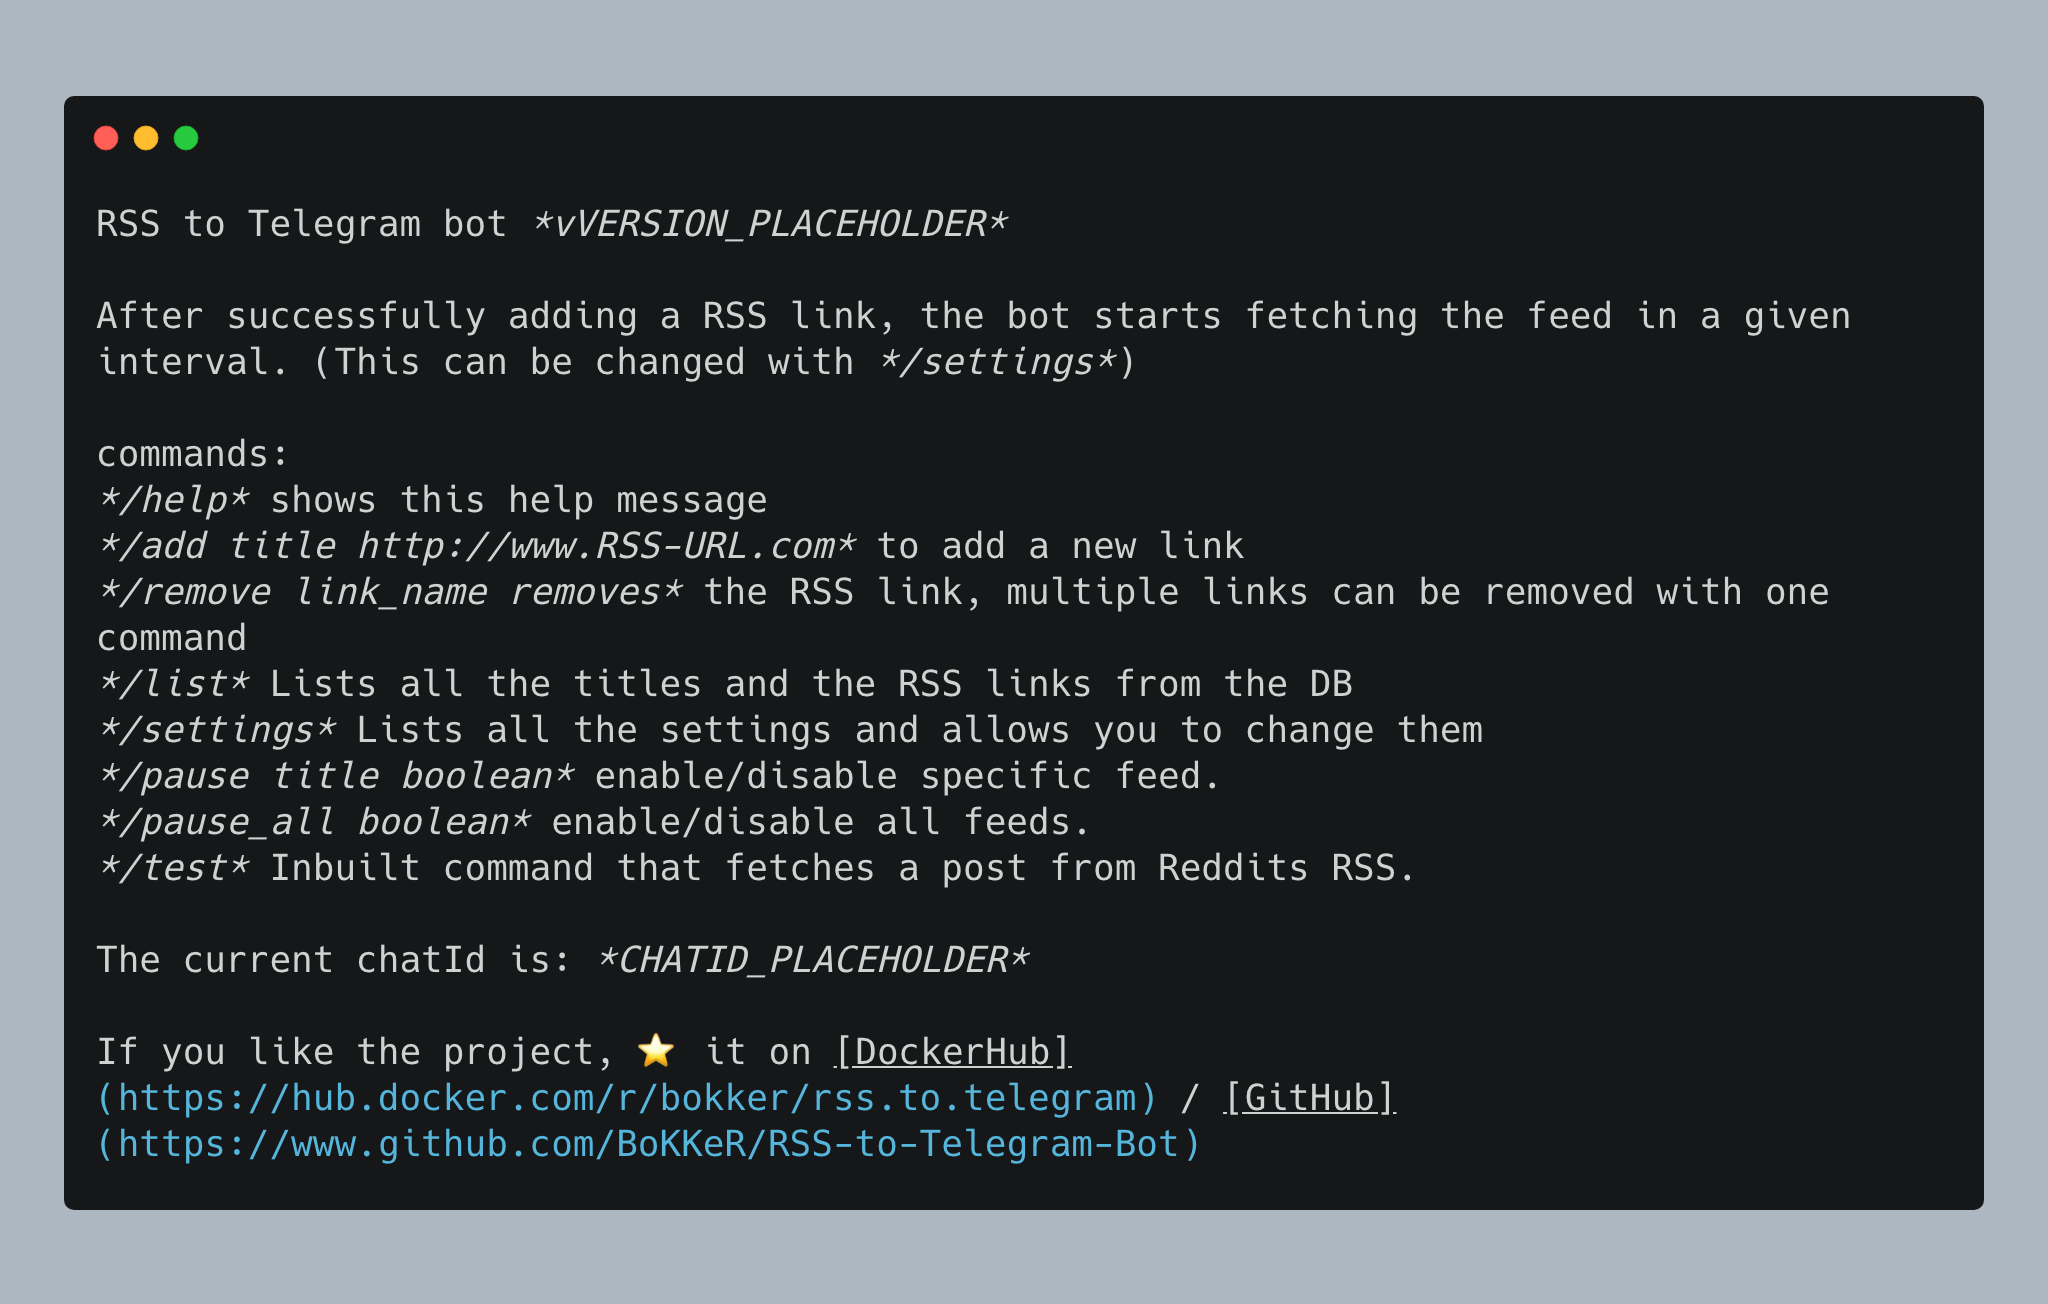
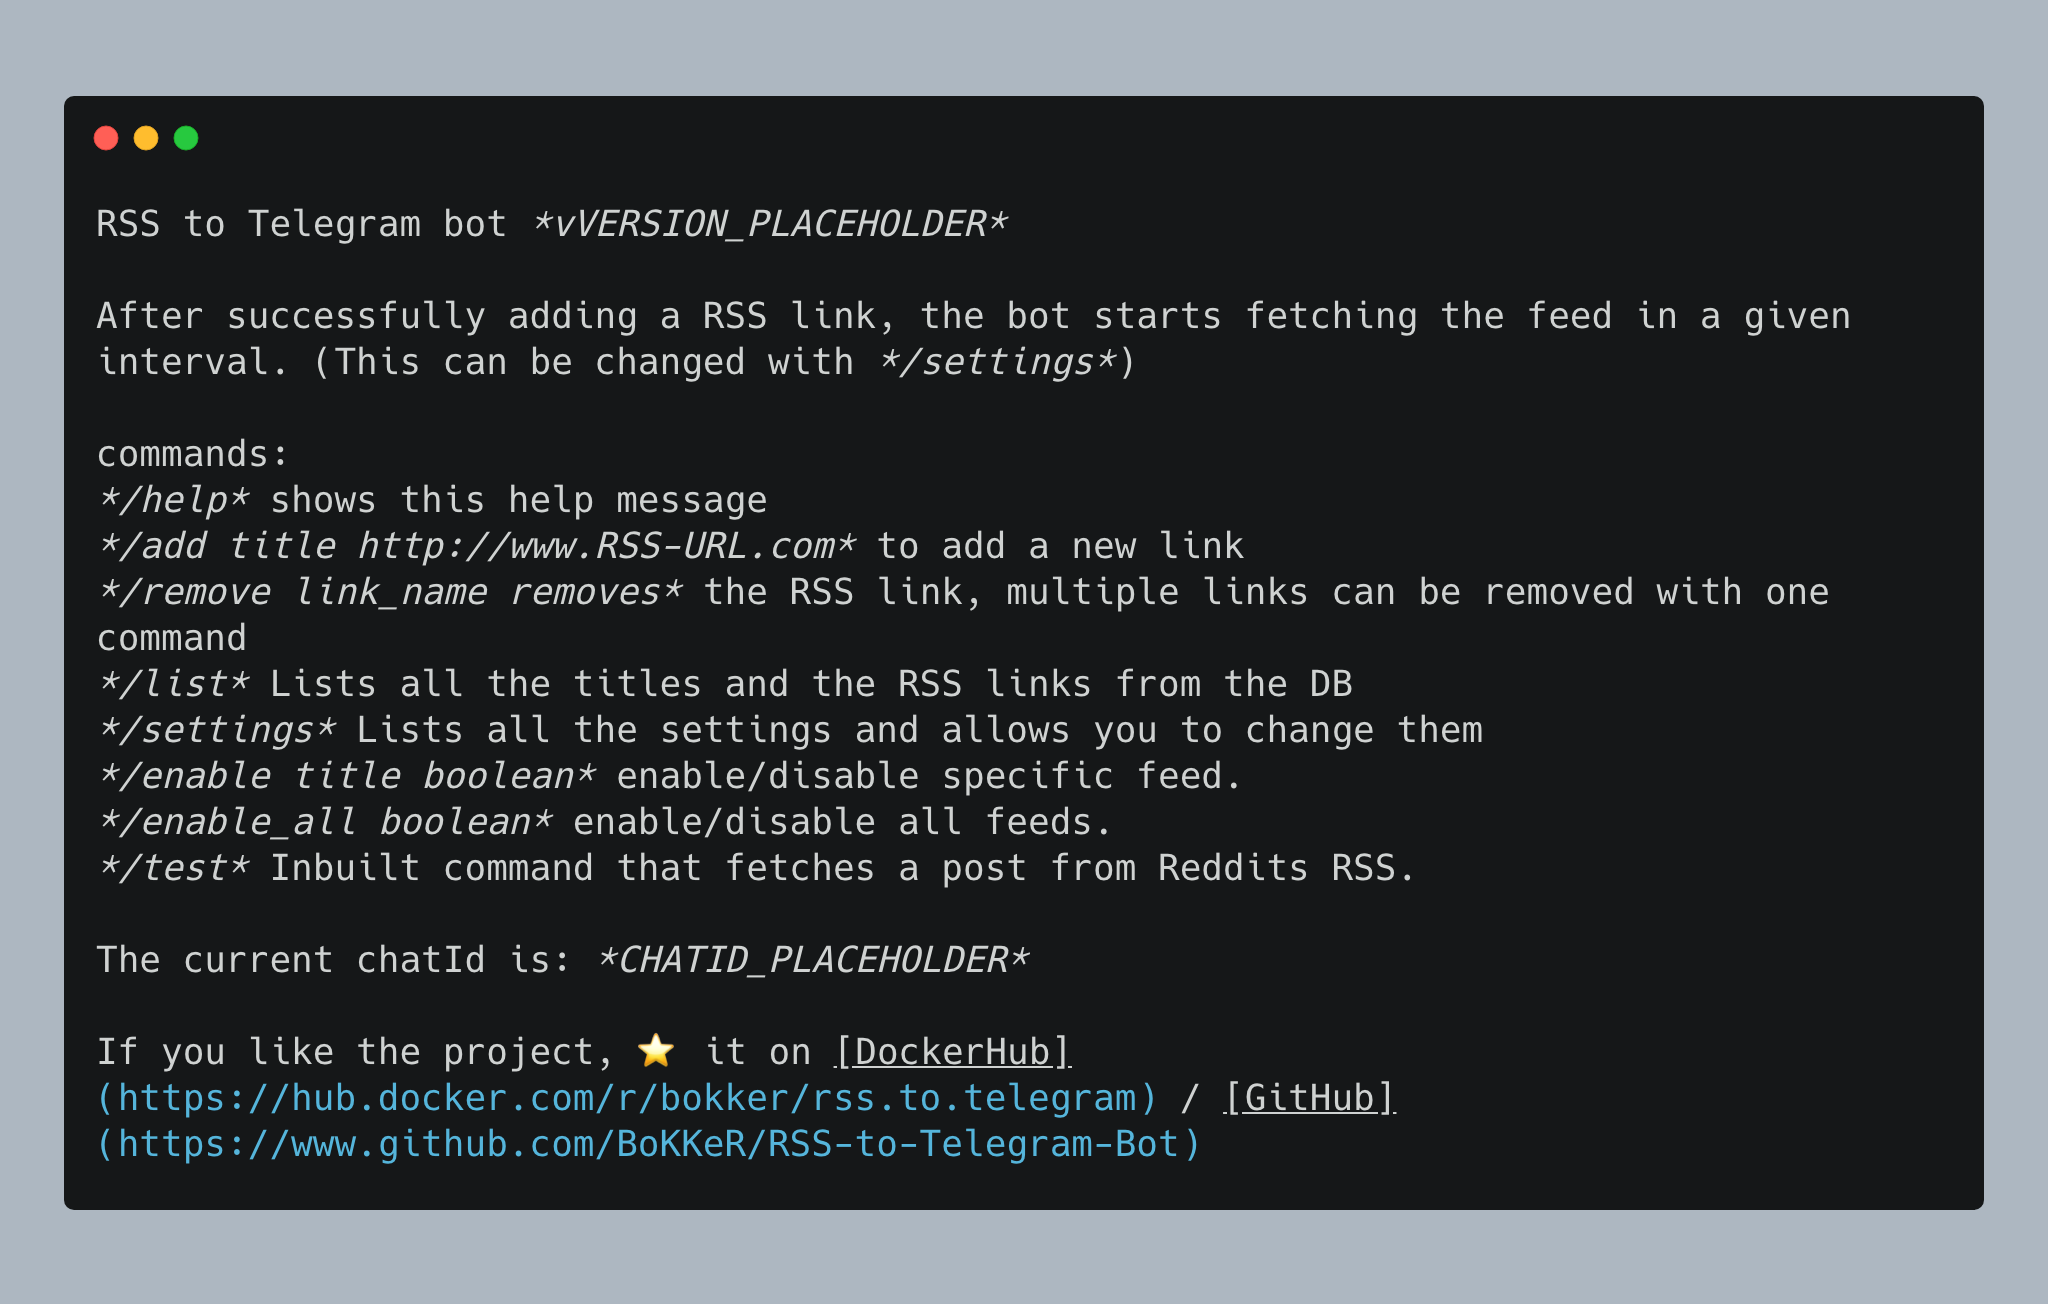
updated command in image

Changed region(s): [[0.0625, 0.5828, 0.5938, 0.6442]]

diff --git a/src/doc/help.md b/src/doc/help.md
@@ -8,8 +8,8 @@ commands:
 */remove link_name removes* the RSS link, multiple links can be removed with one command
 */list* Lists all the titles and the RSS links from the DB
 */settings* Lists all the settings and allows you to change them
-*/pause title boolean* enable/disable specific feed.
-*/pause_all boolean* enable/disable all feeds.
+*/enable title boolean* enable/disable specific feed.
+*/enable_all boolean* enable/disable all feeds.
 */test* Inbuilt command that fetches a post from Reddits RSS.
 
 The current chatId is: *CHATID_PLACEHOLDER*
